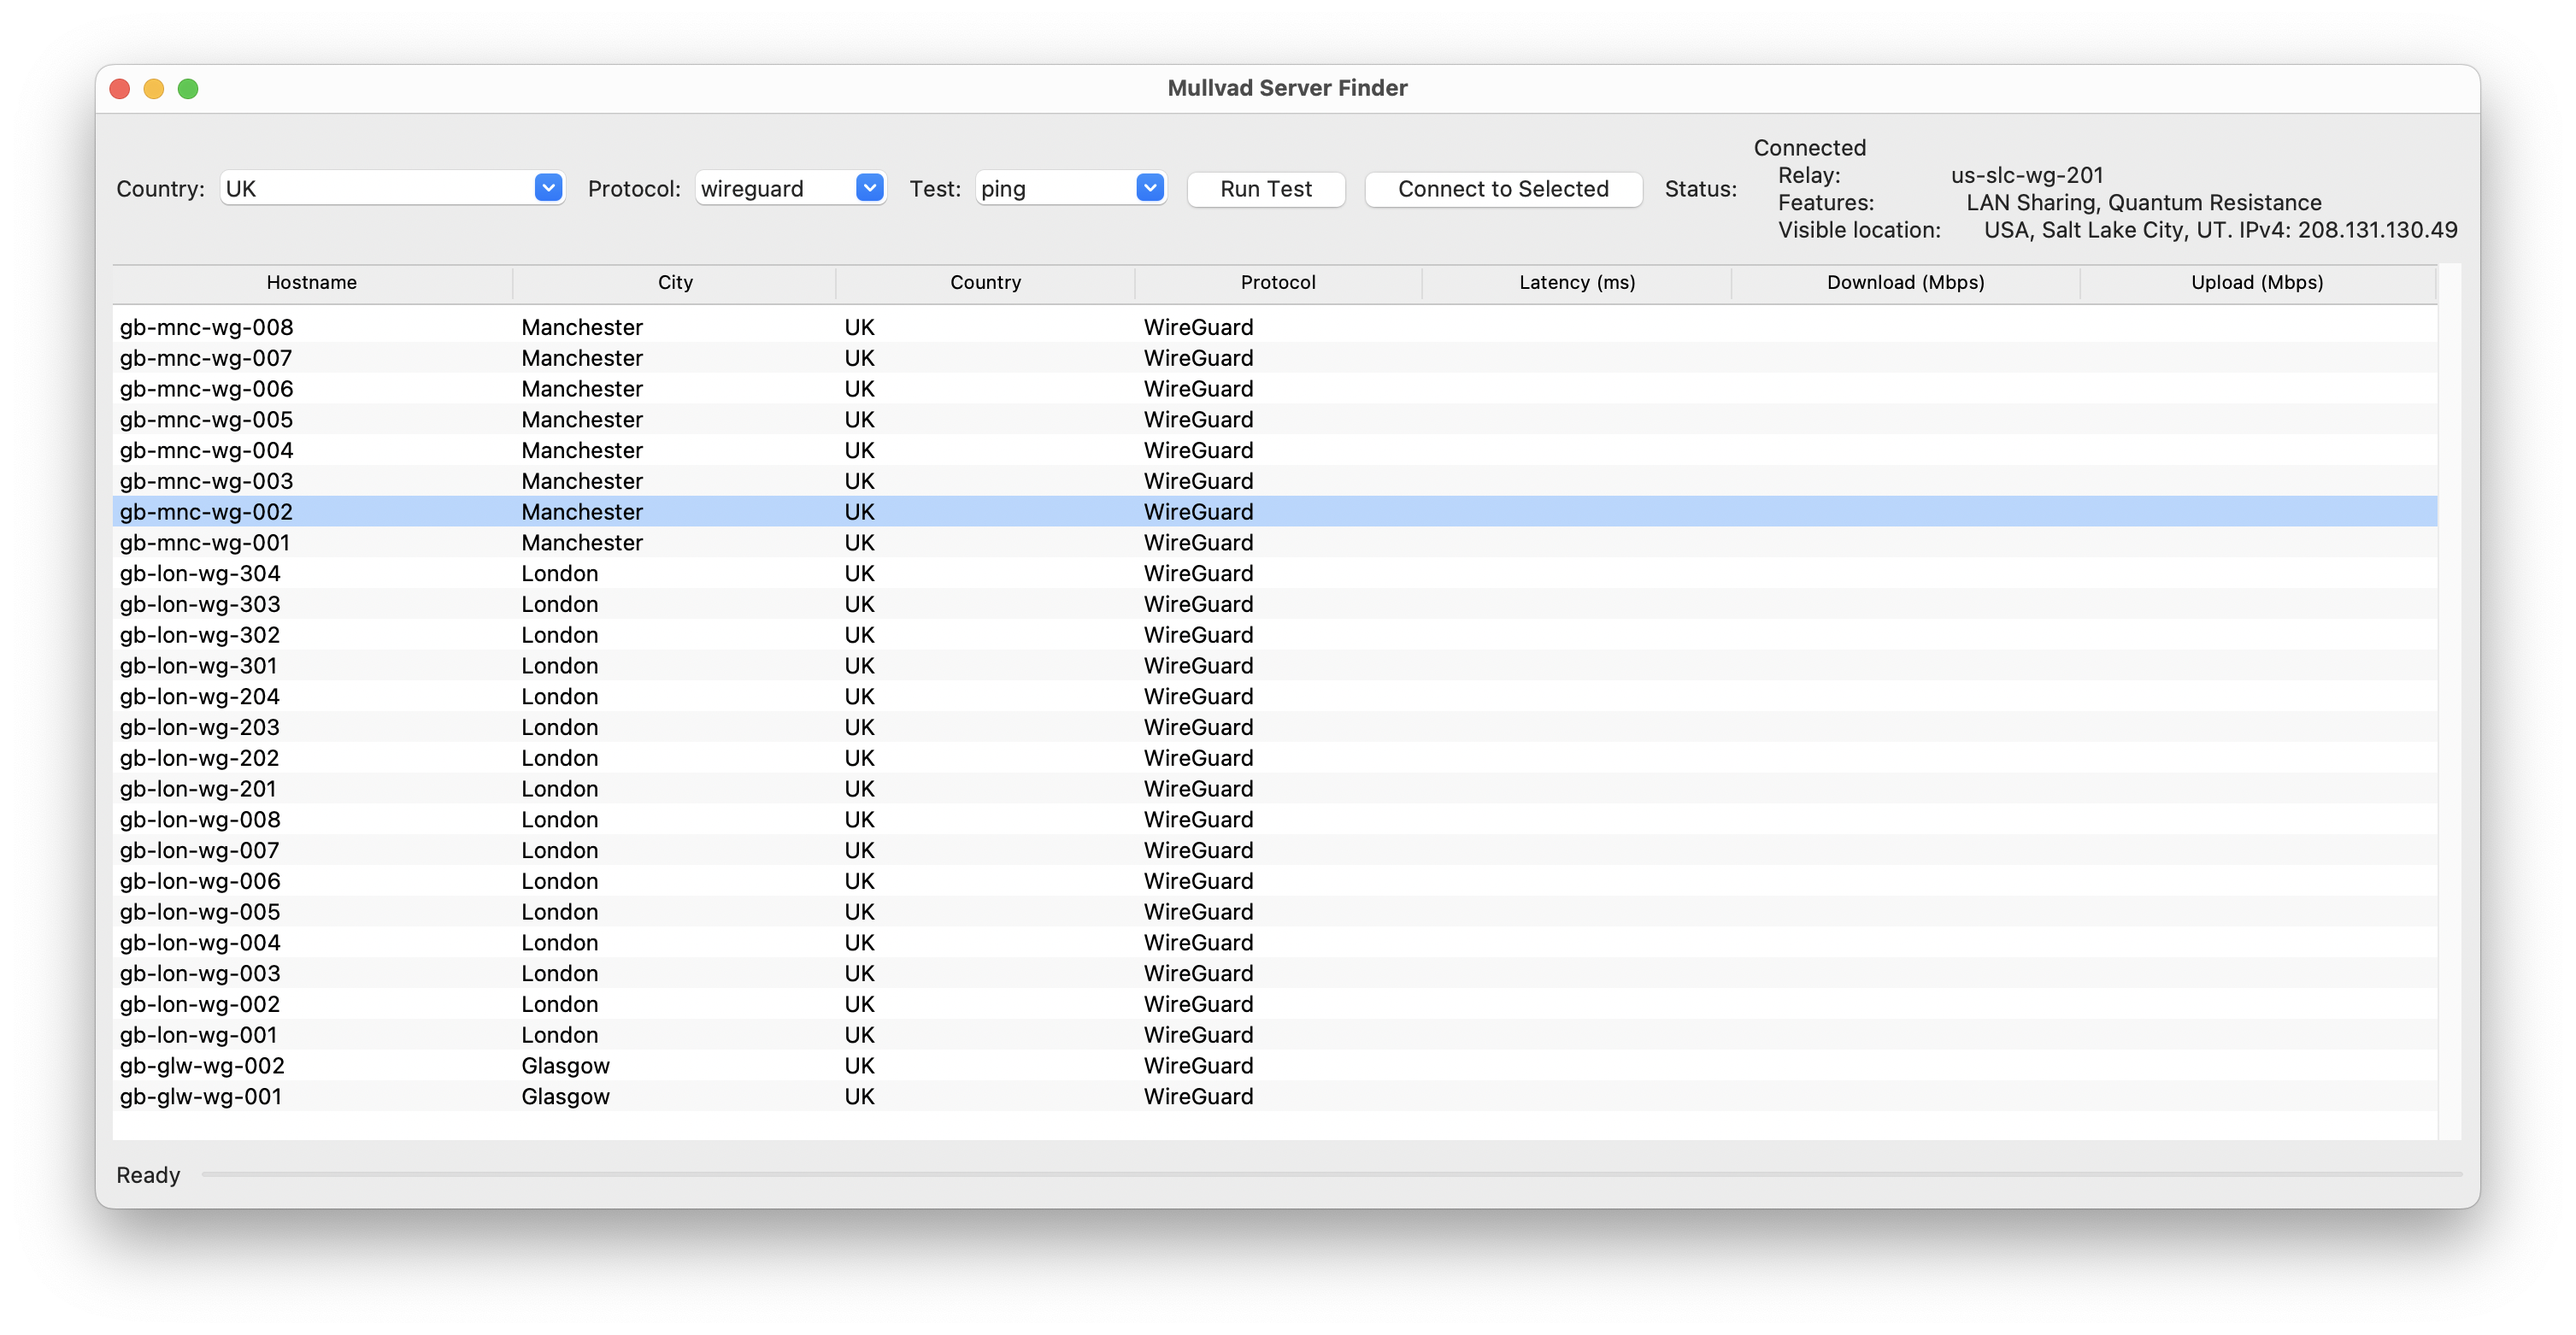
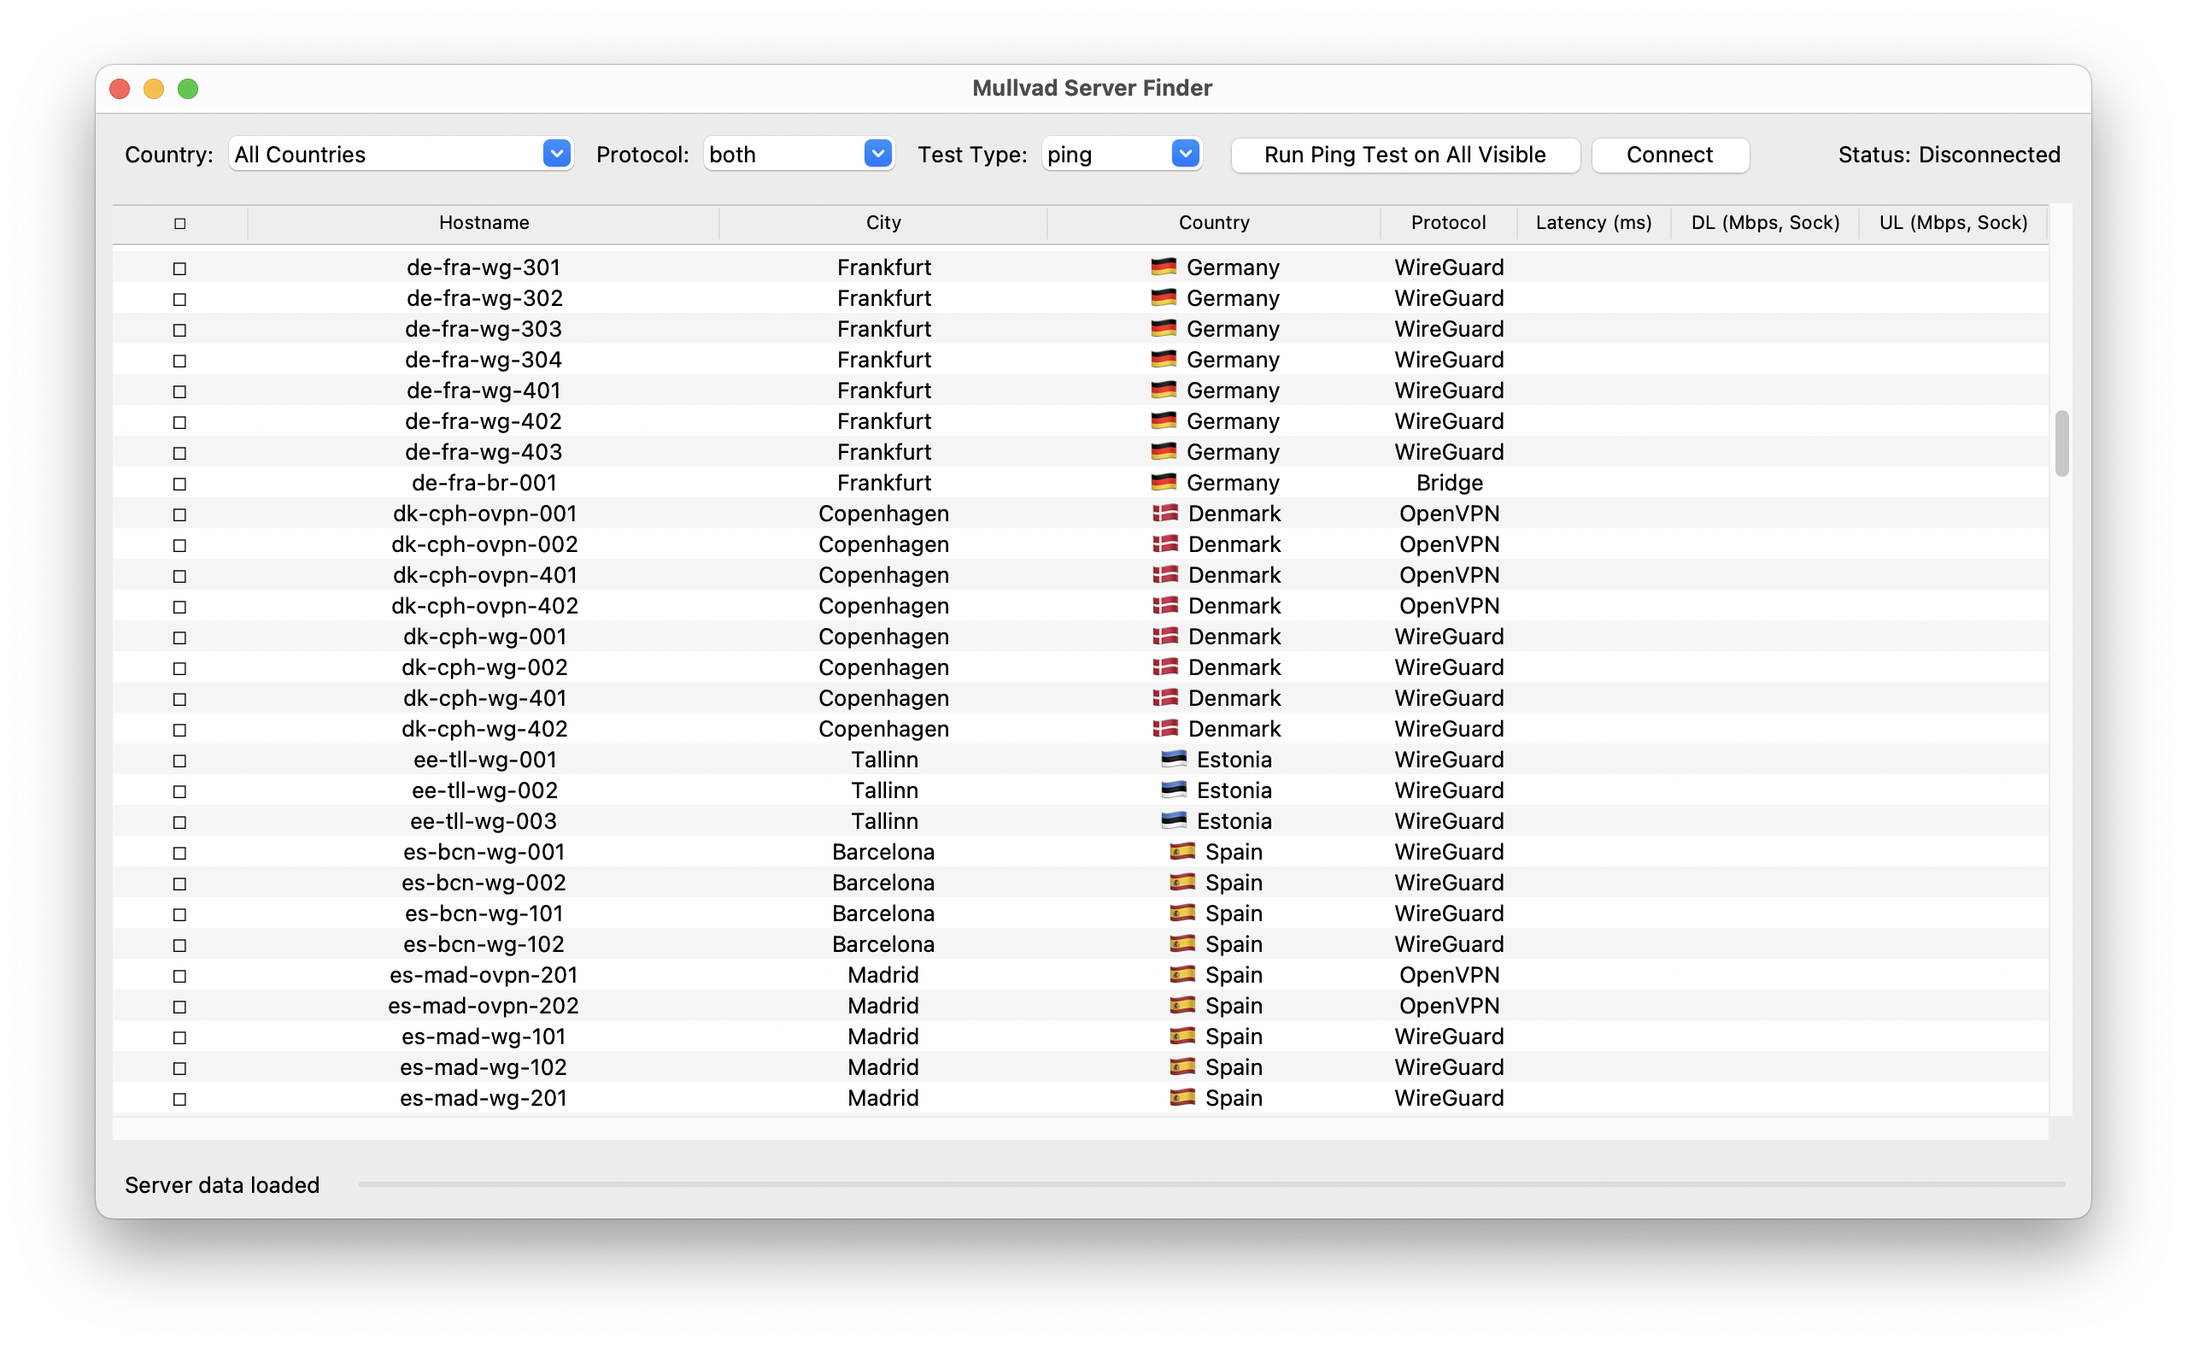
Update screenshots and enhance README content for clarity and detail

diff --git a/readme.md b/readme.md
@@ -1,31 +1,31 @@
 # Mullvad Server Finder
 
-A Python GUI application to identify and connect to the fastest Mullvad VPN servers. Retrieve server listings, perform latency and speed tests, and connect to optimal servers with a single click.
+A Python GUI application to help identify the best Mullvad VPN servers based on latency and estimated socket performance. Retrieve server listings, perform tests, filter, sort, and connect to optimal servers.
 
 ![Mullvad Server Finder Screenshot](Screenshot.png)
 
 ## Key Features
 
 - **Server Discovery**: Automatically fetches the complete Mullvad server list
-- **Performance Testing**: Runs ping tests to measure server latency and speed tests to measure throughput
-- **Smart Filtering**: Filter servers by country, city, and protocol (WireGuard/OpenVPN)
-- **Visual Feedback**: Color-coded latency and speed indicators help identify the best-performing servers
-- **One-Click Connection**: Connect to any server directly from the application
+- **Performance Testing**: Runs ICMP ping tests for latency and a TCP socket ping-pong test for estimated connection responsiveness/throughput.
+- **Smart Filtering**: Filter servers by country and protocol (WireGuard, OpenVPN, or Both).
+- **Flexible Connection**: Connect to selected servers (single or fastest) directly via the Mullvad CLI. Double-click to connect.
 - **Favorites System**: Save preferred servers for quick access
 - **Customizable Settings**: Configure testing parameters, appearance, and behavior
 
 ## System Requirements
 
-- Python 3.6 or newer
-- Tkinter (included with most Python installations)
+- Python 3.7 or newer (due to potential type hinting usage)
+- Tkinter (usually included with Python)
 - Mullvad VPN desktop client installed and properly configured
-- `mullvad` command-line tool in your system PATH
+- `mullvad` command-line tool accessible in your system PATH
+- `sv-ttk` library for improved theming (optional, but recommended)
 
 ## Installation
 
 1. Clone this repository:
    ```
-   git clone https://github.com/yourusername/mullvad-server-finder.git
+   git clone https://github.com/Lichiel/Mullvad-Server-Finder.git
    cd mullvad-server-finder
    ```
 
@@ -35,9 +35,9 @@ A Python GUI application to identify and connect to the fastest Mullvad VPN serv
    source venv/bin/activate  # On Windows: venv\Scripts\activate
    ```
 
-3. Install dependencies:
+3. Install dependencies (sv-ttk is recommended for better visuals):
    ```
-   pip install ttkthemes  # For enhanced visual themes (optional)
+   pip install sv-ttk
    ```
 
 ## Usage Guide
@@ -49,23 +49,29 @@ Launch the application by running:
 python main.py
 ```
 
-### Selecting Servers
+### Filtering and Selecting Servers
 
-1. Use the country dropdown to filter servers by location
-2. Select your preferred protocol (WireGuard or OpenVPN)
-3. Choose a test type (ping, speed, or both)
+1. Use the **Country** dropdown to filter servers by location (includes flags!). Select "All Countries" to see the full list.
+2. Select your preferred **Protocol** (WireGuard, OpenVPN, or Both) to further filter the list.
+3. Choose the **Test Type** (ping, speed, or both) you intend to run from the dropdown. This also updates the main test button's text.
+4. **Checkboxes**: Click the checkbox in the header row to select/deselect all visible servers. Click individual checkboxes next to server hostnames to select specific servers for testing or connection.
 
 ### Testing Server Performance
 
-1. Click "Run Test" to start testing server performance
-2. Servers will be tested and sorted automatically with the best performers at the top
-3. Results are color-coded for easy identification of optimal servers
+1. Click the main **Run Test** button. The button text indicates whether it will test "All Visible" servers or the specific number of "Selected" servers (based on checkboxes).
+2. The application will perform the selected test type (ping, speed, or both) on the target servers. Progress is shown in the status bar. You can Pause or Stop the test using the buttons that appear.
+3. Results (Latency, Download/Upload Speed) appear in the list. Lower latency is generally better. Higher socket speed *might* indicate a more responsive connection for certain types of traffic but is not a guarantee of real-world speed.
+4. Results are color-coded (optional, configurable in Settings) for easier visual comparison. Green indicates better performance within the tested set.
+5. Click column headers to sort the results.
 
 ### Connecting to Servers
 
-- Select any server and click "Connect to Selected" to connect via the Mullvad client
-- Use "Connect to Fastest" from the Connection menu to connect to the best-performing server
-- Set up Auto-Connect in settings to automatically connect after tests
+- **Select** a server in the list.
+- Click the **Connect** button or use the **Connection -> Connect to Selected** menu item (Ctrl+C).
+- Alternatively, **double-click** a server row to connect.
+- Use **Connection -> Connect to Fastest** to automatically select and connect to the server with the lowest ping result from the last test run.
+- Enable **Auto-Connect** in Settings to automatically connect to the fastest server after a ping test completes.
+- Use **Connection -> Disconnect** (Ctrl+D) to disconnect.
 
 ### Managing Favorites
 
@@ -74,34 +80,44 @@ python main.py
 
 ## Configuration
 
-Access the Settings dialog through the File menu to customize:
+Access the **Settings** dialog through the **File** menu to customize:
 
-- **Cache Location**: Specify where the application finds Mullvad's relay list
-- **Testing Parameters**: Configure ping count, timeout, concurrent tests, and more
-- **Visual Settings**: Choose between light, dark, or system theme
-- **Default Behaviors**: Set auto-connect options and default sorting preferences
+- **General**:
+    - **Cache Path**: Specify the location of Mullvad's `relays.json` file. Defaults to `~/.config/mullvad-finder/relays.json` if not set.
+    - **Auto Connect**: Enable/disable connecting to the fastest server automatically after ping tests.
+    - **Theme**: Choose between Light, Dark, or System theme (requires `sv-ttk`).
+    - **Alternating Row Colors**: Toggle background colors for rows in the list.
+- **Testing**:
+    - **Ping Count**: Number of pings per server.
+    - **Max Workers**: Number of servers to test concurrently.
+    - **Test Timeout**: Timeout for ping tests.
+    - **Color Latency/Speed**: Enable/disable color-coding for result cells.
+    - **Speed Test Duration**: How long the socket speed test runs for each server (in seconds).
+    - **Default Test Type**: Set the default test selected on startup.
+- **Display**:
+    - **Default Sort Column/Order**: Set how the list is sorted initially.
 
 ## Troubleshooting
 
 ### Common Issues
 
-- **Can't find Mullvad cache file**: In Settings, update the cache path to match your system's location
-- **Connection failures**: Ensure Mullvad client is properly installed and has necessary permissions
-- **Slow testing**: Reduce "Max Concurrent Pings" setting if your system has limited resources
-
-### Platform-Specific Notes
-
-- **macOS**: Cache file is typically located at `/Library/Caches/mullvad-vpn/relays.json`
-- **Windows**: Cache file is usually in `%LOCALAPPDATA%\Mullvad VPN\relays.json`
-- **Linux**: Cache file is commonly found in `~/.cache/mullvad-vpn/relays.json`
+- **Mullvad CLI Not Found / Dependency Error**: Ensure the Mullvad VPN client is installed correctly and the `mullvad` command works in your terminal. The application relies on the CLI for status checks and connection management.
+- **Cannot Find `relays.json` / Error Loading Data**:
+    - The application first looks for a `relays.json` file specified in **Settings -> General -> Cache Path**.
+    - If that's empty or invalid, it looks for `relays.json` inside a configuration directory: `~/.config/mullvad-finder/relays.json` (on Linux/macOS) or `%APPDATA%\mullvad-finder\relays.json` (on Windows).
+    - If still not found, it attempts to locate the default Mullvad cache path (e.g., `/Library/Caches/mullvad-vpn/relays.json` on macOS, `%PROGRAMDATA%\Mullvad VPN\cache\relays.json` on Windows, `~/.cache/mullvad-vpn/relays.json` on Linux).
+    - **Solution**: Manually copy the `relays.json` file from the Mullvad cache location to `~/.config/mullvad-finder/` (or the Windows equivalent) OR explicitly set the correct path in the application's Settings.
+- **Connection Failures**: Besides ensuring the Mullvad client is running, check the Mullvad app's logs for connection errors. This tool simply tells the Mullvad CLI what to do.
+- **Slow Testing**: Reduce **Max Workers** in Settings if testing consumes too many resources.
+- **Speed Test Results are 0 or Low**: The socket speed test uses direct TCP connections to common ports. Some servers might block or throttle these non-standard connections, leading to low or zero results. This test is primarily for *relative comparison* between servers under these specific conditions, not an absolute measure of browsing/download speed.
 
 ## Project Structure
 
-- `main.py`: Application entry point
-- `gui.py`: User interface implementation
-- `server_manager.py`: Server testing and management functions
-- `mullvad_api.py`: Integration with Mullvad VPN CLI
-- `config.py`: User configuration management
+- `main.py`: Application entry point, sets up logging and environment.
+- `gui.py`: Defines the main Tkinter GUI application class and its components.
+- `server_manager.py`: Contains logic for fetching, filtering, and testing servers (ping and socket speed test).
+- `mullvad_api.py`: Wraps Mullvad CLI commands for status, connection, etc.
+- `config.py`: Handles loading, saving, and managing user settings and cache/log paths.
 
 ## License
 
@@ -109,5 +125,6 @@ This project is licensed under the MIT License - see the LICENSE file for detail
 
 ## Acknowledgments
 
-- [Mullvad VPN](https://mullvad.net/) for their privacy-focused VPN service
-- The Tkinter and ttkthemes projects for GUI components
+- [Mullvad VPN](https://mullvad.net/) for their excellent privacy-focused VPN service.
+- The [sv-ttk](https://github.com/rdbende/Sun-Valley-ttk-theme) project for the modern Tkinter theme.
+- The Python standard library (Tkinter, logging, threading, etc.).
